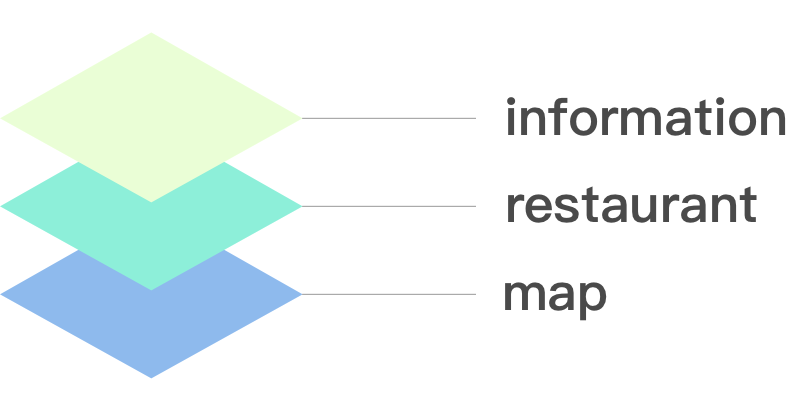
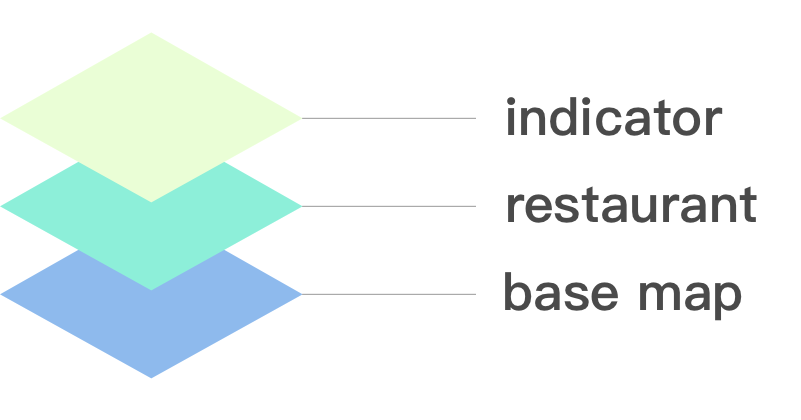
crous v1.1

Changed region(s): [[0.6866, 0.2167, 0.9988, 0.3405], [0.6242, 0.65, 0.9363, 0.7738]]

diff --git a/resto.html b/resto.html
@@ -47,7 +47,8 @@
           <h3 class="ui header">INTRO</h3>
           <p>CROUS is an organization that provides meals for students. But there are some information barriers
             between students and CROUS.
-            DigiCROUS is a mobile app to improve the dinning experience for students by making information accessible.</p>
+            DigiCROUS is a mobile app to improve the dinning experience for students by making information accessible.
+          </p>
           <p>This is the project of the course <i>Advanced Design of Interaction System</i>.</p>
         </div>
 
@@ -111,7 +112,7 @@
         </p>
       </div>
       <div class="four wide column">
-        <img src="img/resto/goal.svg"/>
+        <img src="img/resto/goal.svg" />
       </div>
       <div class="two wide column"></div>
     </div>
@@ -155,13 +156,14 @@
 
       </div>
 
-      <div class="three wide column">
+      <div class="four wide column">
         <img class="ui small circular image" src="img/resto/celine.png" />
         <h1 class="ui header">Céline</h1>
         <p>French student, 23</p>
         <h3 class="ui header">Points</h3>
         <p>
           <li>very busy</li>
+          <li>usually forget to recharge card</li>
         </p>
         <h3 class="ui header">Goal</h3>
         <p>Get food as soon as possible</p>
@@ -186,7 +188,8 @@
             design</b> activity to get more ideas.</p>
         <h3 class="ui header">Activity:</h3>
         <p><i>1. Users will see some pictures of food and link whatever they think about to the
-            food to the pictures.<br/>2. Users will try to group some food by color according to their feelings.</i></p>
+            food to the pictures.<br />2. Users will try to group some food by color according to their feelings.</i>
+        </p>
 
       </div>
     </div>
@@ -213,9 +216,8 @@
     <div class="row" style="background: #f0f0f0">
       <div class="eight wide column">
         <p class="p-hl">2. Information about restaurant</p>
-        <p>Students need the location, busyness and peak hour of each restaurant for better decision from the interview. 
-          So we used different layers to display these information.</p>
-        <img class="ui image" src="./img/resto/layer.png"/>
+        <p>Students need the location, busyness and peak hour of each restaurant for better decision from the interview.
+        </p>
 
       </div>
     </div>
@@ -227,61 +229,73 @@
 
     <div class="eight wide column">
       <p>We made some paper prototypes to test our ideas.</p>
-      
+
     </div>
 
     <div class="row">
       <div class="three wide column">
         <img class="ui image" src="img/resto/p6.png" />
       </div>
-      <div class="three wide column">
-          <img class="ui image" src="img/resto/p4.png" />
-        </div>
+
 
       <div class="five wide column">
         <p class="p-hl">Indicator for peak hour</p>
         <p>We designed an indicator to show the current status and peak hour of each restaurant.
-        And, they will get a recharge notification if there is no enough balance in student card.
+          We used different layers to display these information.
 
         </p>
+        <img src="./img/resto/layer.png" />
+
+      </div>
+    </div>
+
+    <div class="row">
+      <div class="three wide column">
+        <img class="ui image" src="img/resto/p4.png" />
+      </div>
+      <div class="five wide column">
+        <p class="p-hl">Recharge notification</p>
+
+        <p>They will get a recharge notification if there is no enough balance in student card.</p>
       </div>
     </div>
 
     <div class="row">
       <div class="eight wide column">
-          <p class="p-hl">The tray in both real and digital world</p>
-          <p></p>
-          <p>We designed a tray, like the real tray in CROUS. It indicated your choice.
-            At CROUS, students can choose one plat, one dessert, one entry and one salad. Food will be added to the correspoding
-            place on the tray.</p>
-          <p>They can click the dish to see the details including name, nutritions, ingredients,
-            allergic information and some comments.</p>
+        <p class="p-hl">The tray in both real and digital world</p>
+        <p></p>
+        <p>We designed a tray, like the real tray in CROUS. It indicated your choice.
+          At CROUS, students can choose one plat, one dessert, one entry and one salad. Food will be added to the
+          correspoding
+          place on the tray.</p>
+        <p>They can click the dish to see the details including name, nutritions, ingredients,
+          allergic information and some comments.</p>
 
       </div>
     </div>
 
 
     <div class="row">
-        <div class="three wide column">
-          <img class="ui image" src="img/resto/p2.png" />
-        </div>
-        <div class="three wide column">
-          <img class="ui image" src="img/resto/p3.png" />
-        </div>
-        <div class="three wide column">
-            <img class="ui image" src="img/resto/pay.png" />
-          </div>
-        <div class="two wide column">
-            <div class="bordered">
-                <div class="hl">
-                    <p class="p-hl-title">Thinking</p>
-                    <p class="p-hl">Connection</p>
-                      <p>This design can help users understand how to use the app and new student to understand CROUS rule.</p>
-                  </div>
-            </div>
-        </div>
-  
+      <div class="three wide column">
+        <img class="ui image" src="img/resto/p2.png" />
       </div>
+      <div class="three wide column">
+        <img class="ui image" src="img/resto/p3.png" />
+      </div>
+      <div class="three wide column">
+        <img class="ui image" src="img/resto/pay.png" />
+      </div>
+      <div class="two wide column">
+        <div class="bordered">
+          <div class="hl">
+            <p class="p-hl-title">Thinking</p>
+            <p class="p-hl">Connection</p>
+            <p>This design can help users understand how to use the app and new student to understand CROUS rule.</p>
+          </div>
+        </div>
+      </div>
+
+    </div>
 
 
     <div class="row">
@@ -299,63 +313,66 @@
     </div>
 
     <div class="row">
-        <div class="four wide column">
-                <div class="hl">
-                    <p class="p-hl-title">Evaluation</p>
-                    <p class="p-hl">Filter or profile?</p>
-                    <p>Ming is allergic to gluten. But he has to set the filter everytime.
-                      He needs a permanent filter. So we designed a user profile. Users can set it at the first time using this app.</p>
-                      <p>The filter we originally designed, was for temporary use. For example, it can be used to choose different flavours.</p>
-                  </div>
+      <div class="four wide column">
+        <div class="hl">
+          <p class="p-hl-title">Evaluation</p>
+          <p class="p-hl">Filter or profile?</p>
+          <p>Ming is allergic to gluten. But he has to set the filter everytime.
+            He needs a permanent filter. So we designed a user profile. Users can set it at the first time using this
+            app.</p>
+          <p>The filter we originally designed, was for temporary use. For example, it can be used to choose different
+            flavours.</p>
         </div>
-        <div class="three wide column">
-          <img class="ui image" src="img/resto/profile.png"/>
-        </div>
-        <div class="one wide column"></div>
-
       </div>
+      <div class="three wide column">
+        <img class="ui image" src="img/resto/profile.png" />
+      </div>
+      <div class="one wide column"></div>
+
+    </div>
 
 
     <div class="row">
       <div class="three wide column">
         <video src="img/resto/int3.mp4" width='240' controls="true" />
       </div>
+      <div class="three wide column">
+        <img class="ui image" src="img/resto/p7.png" />
+      </div>
+
       <div class="five wide column">
         <p class="p-hl-title">Design</p>
         <p class="p-hl">Fast way to access history</p>
         <p>Compared to other apps process, this design is really fast to help students in hurry.</p>
-
-
-
+        <p>For fast choice, there was a problem when a specific food was not offered today or sold out. So we added a
+          notification if it happeded.
+          Students could add new food quickly in the popup.</p>
       </div>
+    </div>
+
+    <div class="row">
+
     </div>
 
     <div class="row">
       <div class="three wide column">
-          <img class="ui image" src="img/resto/p7.png" />
+
+        <img class="ui image" src="./img/resto/indicator.png" />
       </div>
+
+      <div class="three wide column">
+        <img class="ui image" src="./img/resto/report.png" />
+      </div>
+
+
       <div class="five wide column">
-          <p>For fast choice, there was a problem when a specific food was not offered today or sold out. So we added a notification if it happeded.
-              Students could add new food quickly in the popup.</p>
+        <p class="p-hl">Track your food</p>
+        <p>We added a nutrition indicator when choosing food. After eating, this app will send a report about nutrition
+          and users can rate the food at this time.</p>
+
       </div>
     </div>
 
-    <div class="row">
-      <div class="two wide column">
-
-        <img class="ui small image" src="./img/resto/indicator.png" />
-      </div>
-      <div class="two wide column">
-        <img class="ui small image" src="./img/resto/report.png" />
-      </div>
-
-      <div class="four wide column">
-          <p class="p-hl">Track your food</p>
-          <p>We added a nutrition indicator when choosing food. After eating, this app will send a report about nutrition
-            and users can rate the food at this time.</p>
-  
-        </div>
-    </div>
 
     <div class="row">
       <div class="eight wide column">
@@ -379,17 +396,18 @@
     </div>
 
     <div class="row">
-        <div class="eight wide column">
-            <div class="bordered">
-                <div class="hl">
-                    <p class="p-hl-title">Thinking</p>
-                    <p class="p-hl">Fewer steps</p>
-                      <p>Normally, users should remove their location manually after finishing eating. 
-                        But it's very easy to forget it and make their friends upset. We designed a timer to do this automatically.</p>
-                  </div>
-            </div>
+      <div class="eight wide column">
+        <div class="bordered">
+          <div class="hl">
+            <p class="p-hl-title">Thinking</p>
+            <p class="p-hl">Fewer steps</p>
+            <p>Normally, users should remove their location manually after finishing eating.
+              But it's very easy to forget it and make their friends upset. We designed a timer to do this
+              automatically.</p>
+          </div>
         </div>
       </div>
+    </div>
 
     <div class="row">
       <a href="./index"><button class="ui yellow basic  button">HOME</button></a>

diff --git a/map.html b/map.html
@@ -378,16 +378,13 @@
     </div>
 
     <div class="row">
-      <div class="four wide column">
+      <div class="eight wide column">
         <p class="p-hl-title">Wireframe</p>
         <p class="p-hl">3. choose other's itinerary and edit</p>
         <p>Users can view other's itinerary in both map view and itinerary. After choosing one itinerary, they can edit it in map
           view.</p>
       </div>
 
-      <div class="five wide column">
-        <img class="ui image" src="./img/map/view.png" />
-    </div>
     </div>
 
 
@@ -395,13 +392,19 @@
       <div class="nine wide column">
         <img class="ui image" src="./img/map/w3.png" />
       </div>
-      <div class="three wide column">
+
+    </div>
+
+    <div class="row">
+      <div class="eight wide column">
           <div class="bordered">
             <p class="p-hl-title">Thinking</p>
             <p class="p-hl">Consistency</p>
             <p>The interface of browsing are almost the same as editing itinerary. This design can simplify the development. Many components can be reused.</p>
+        <img class="ui large image" src="./img/map/view.png" />
+  
           </div>
-        </div>
+      </div>
     </div>
 
 
